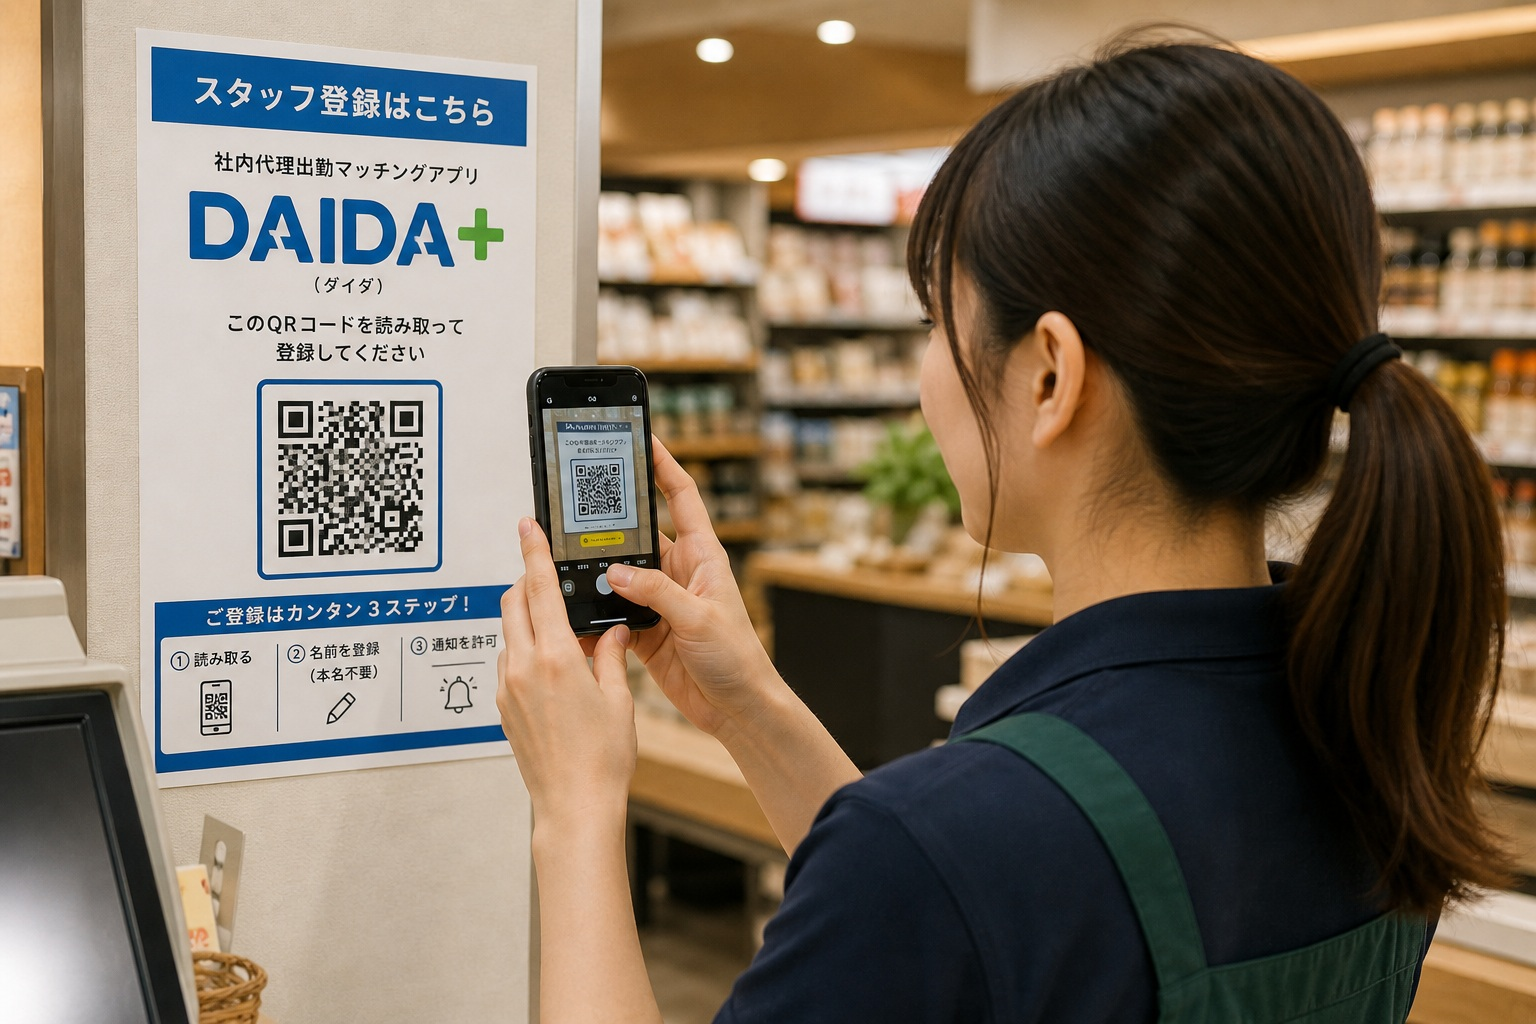
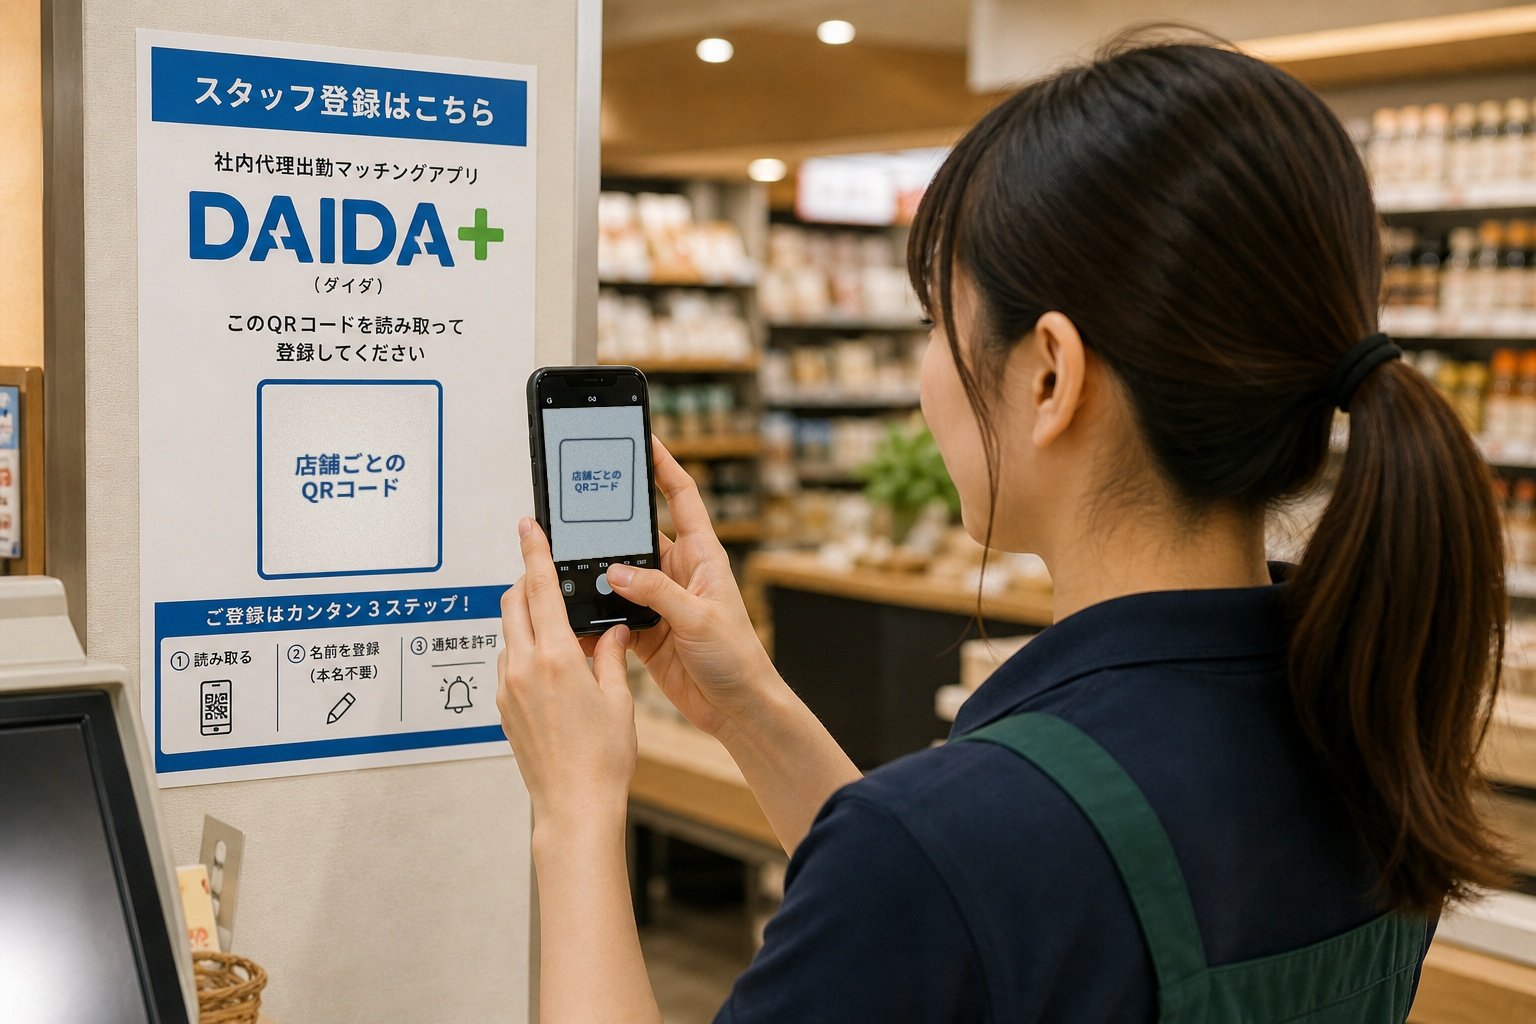
写真②の偽QRを「店舗ごとの QRコード」の表示に差し替え
LPの写真に写っていたQRは、AIが描いた読み取れない模様だった。
「店舗用QRコードから登録できます」と説明している真下にあり、
かざしても何も起きない状態だった。

- 壁の貼り紙のQR → 「店舗ごとの QRコード」の文字に差し替え
- スマホ画面 → カメラが映す範囲を紙の地色にし、QRの枠だけを表示
  （実際にQRを読むときは、他が入らないようQRだけを写すため）
  あわせて、画面内のAI生成のでたらめな日本語がすべて消えた
- scripts/replace_fake_qr_in_photo2.py を追加（--verify で再確認できる）

料金・法務まわりの変更は含まない。

Changed region(s): [[0.1562, 0.375, 0.2812, 0.5625], [0.3438, 0.375, 0.4375, 0.5625]]

diff --git a/scripts/replace_fake_qr_in_photo2.py b/scripts/replace_fake_qr_in_photo2.py
@@ -1,0 +1,293 @@
+"""LPの写真②（photo2）に写っている「偽のQRコード」を、文字の入った四角に差し替える。
+
+なぜ必要か
+----------
+photo2 に写っている貼り紙のQRは、**AIが描いた「QRっぽい模様」で、読み取れません。**
+（3隅にあるはずの位置検出マークが右下にもあり、規格として成立していない）
+
+このLPは「店舗用QRコードから登録できます」と説明している場所です。
+興味を持った店長がスマホをかざしても、**何も起きません。**
+最初に試すのが「動かない体験」になります。
+
+そこで、QRの部分を「店舗ごとの QRコード」という文字に差し替えます。
+**ぼかしではなく文字にするのは、「見本である」と言い切るためです。**
+
+⚠ 2か所あります
+-----------------
+1. 壁の貼り紙のQR（大きい・正面）
+2. **スマホの画面に写っている、同じ貼り紙のQR（小さい）**
+
+スマホはその貼り紙を撮影している画面です。**片方だけ直すと、
+撮っている物と写っている物が食い違います。** 必ず両方直します。
+
+⚠ 出力は2ファイル
+------------------
+LPが使うのは `photo2.jpg` ですが、元データの `photo2.png` も直します。
+**jpgだけ直すと、次に誰かがpngから作り直したとき偽QRが戻ってきます。**
+
+使い方
+------
+    pip install opencv-python-headless pillow
+    python scripts/replace_fake_qr_in_photo2.py
+
+実行後、`--verify` で読み取り不能になったことを機械的に確認できます。
+"""
+
+import sys
+from pathlib import Path
+
+import cv2
+import numpy as np
+from PIL import Image, ImageDraw, ImageFont
+
+ROOT = Path(__file__).resolve().parents[1]
+FONT_PATH = "/usr/share/fonts/opentype/noto/NotoSansCJK-Bold.ttc"
+
+LINES = ["店舗ごとの", "QRコード"]
+
+# 乗算合成する文字の色（BGR）。
+# 紙の色 (203,209,216) に掛けると (119,66,21) ＝ 貼り紙の青枠とほぼ同じ濃紺になる。
+# **べた塗りで置くのではなく掛け算にするのは、紙の陰影を残すため。**
+TEXT_MUL_BGR = (150, 80, 25)
+
+
+# 座標はすべて photo2（1536x1024）の実寸。
+# fill  … 紙で塗りつぶす範囲（枠の内側。**青枠には絶対に触れない**よう内側に取る）
+# text  … 文字を載せる四角（元のQRが占めていた範囲。傾きをそのまま引き継ぐ）
+TARGETS = [
+    {
+        "name": "壁の貼り紙",
+        "fill": [(268, 392), (430, 391), (428, 566), (268, 571)],
+        "text": [(278, 401), (422, 401), (420, 548), (278, 557)],
+        # ざらつきの強さを測る、何も印刷されていない紙の場所（青枠の上）
+        "plain": (300, 340, 400, 372),
+        "line_gap": 0.22,
+    },
+    {
+        # 【2026-08-26 方針変更】最初は「画面の中の貼り紙のQRだけ」を差し替えた。
+        # しかし tas さんの指摘どおり、**実際にQRを読むときは、
+        # 他の情報が入らないようにQRだけを写す。**
+        # 画面いっぱいに貼り紙全体（題字・説明文・黄色い帯）が写っているのは、
+        # そもそも不自然だった。しかもそれらは全部、AIの描いたでたらめな文字。
+        #
+        # → **カメラが映している範囲は、紙の地色だけにする。**
+        #    そこに「店舗ごとの QRコード」の四角だけを、近づいて撮った大きさで置く。
+        "name": "スマホ画面",
+        # カメラが映している範囲。
+        # ⚠ 目分量で決めて右端に元の背景が残った。**画面の黒い部分と地続きでない
+        # 明るい塊**として取り出し、行ごとの右端を数えて求め直した値がこれ。
+        # スマホが傾いているため、**4辺すべてが斜め**。四隅とも別々に測った
+        # （右端 641→652、下端 x=560 で y=560・x=640 で y=553）。
+        # 下辺を水平だと思って 554 で切ったところ、**下に元の背景が帯で残った。**
+        "fill": [(543, 409), (641, 406), (652, 552), (553, 561)],
+        # ⚠ ここは 1次式（平面）で当てはめる。
+        # 範囲が広く、元になる明るい画素が真ん中に偏っているため、
+        # 2次式だと端が不自然に暗くなったり明るくなったりする。
+        "order": 1,
+        "frame": {"quad": [(560, 440), (634, 438), (632, 520), (561, 522)],
+                  "bgr": (70, 60, 46)},
+        "text": [(564, 445), (630, 443), (628, 516), (565, 518)],
+        # ざらつきを測る、画面の中の貼り紙の何も無いところ
+        "plain": (600, 452, 616, 457),
+        "line_gap": 0.22,
+    },
+]
+
+
+def poly_mask(shape, quad):
+    m = np.zeros(shape[:2], np.uint8)
+    cv2.fillConvexPoly(m, np.array(quad, np.int32), 255)
+    return m
+
+
+def erase_qr(img, quad, plain, order=2):
+    """四角の中の模様（QR）を消して、紙だけにする。
+
+    ⚠ inpaint（周りから塗り広げる方法）は使わない。
+    一度これで作ったところ、**四角い染みのようなムラ**が出た。
+    紙には照明のムラ（左上が明るく右下が暗い、など）があり、
+    塗り広げでは再現できない。
+
+    代わりに、**いま写っている紙そのものから求める。**
+    QRの白い隙間は、この四角の全面に散らばっている。
+    その明るい画素だけを拾って、なだらかな曲面（2次式）を当てはめれば、
+    照明のムラを含んだ「その場所の紙の色」が復元できる。
+    """
+    area = poly_mask(img.shape, quad)
+    gray = cv2.cvtColor(img, cv2.COLOR_BGR2GRAY)
+
+    # 明るい画素＝紙。QRの白い隙間と、コードの周りの余白。
+    thr = np.percentile(gray[area > 0], 75)
+    paper = (gray >= thr) & (area > 0)
+    ys, xs = np.nonzero(paper)
+    if len(ys) < 60:
+        raise RuntimeError("紙の色を求めるだけの明るい画素が足りません")
+
+    # 座標を -1〜1 に正規化してから当てはめる（桁が揃わないと解が荒れる）
+    x0, x1 = xs.min(), xs.max()
+    y0, y1 = ys.min(), ys.max()
+
+    def basis(x, y):
+        u = (x - x0) / max(x1 - x0, 1) * 2 - 1
+        v = (y - y0) / max(y1 - y0, 1) * 2 - 1
+        terms = [np.ones_like(u), u, v]
+        if order >= 2:
+            terms += [u * v, u * u, v * v]
+        return np.stack(terms, axis=-1)
+
+    A = basis(xs.astype(np.float64), ys.astype(np.float64))
+    gy, gx = np.nonzero(area)
+    B = basis(gx.astype(np.float64), gy.astype(np.float64))
+
+    out = img.copy()
+    for c in range(3):
+        coef, *_ = np.linalg.lstsq(A, img[ys, xs, c].astype(np.float64), rcond=None)
+        out[gy, gx, c] = np.clip(B @ coef, 0, 255)
+
+    # 曲面はつるつるになる。写真の粒状感が無いと、そこだけ浮く。
+    #
+    # ⚠ ざらつきの強さは、**何も印刷されていない紙の場所**から測る。
+    # 一度、QRのあった範囲から測って失敗した。そこにはモジュールの黒い縁が
+    # 混ざっているため、実際の何倍もの値になり、**砂嵐のような画面**になった。
+    #
+    # ⚠ また、RGBそれぞれに別のざらつきを足してはいけない。
+    # 色の粒（赤や緑の点々）が出る。**明るさだけを揺らす。**
+    px0, py0, px1, py1 = plain
+    patch = gray[py0:py1, px0:px1].astype(np.float64)
+    sigma = min(float(np.std(patch - cv2.GaussianBlur(patch, (0, 0), 2))), 4.0)
+    rng = np.random.default_rng(20260826)
+    noise = rng.normal(0, max(sigma, 0.5), size=len(gy))[:, None]
+    out[gy, gx] = np.clip(out[gy, gx].astype(np.float64) + noise, 0, 255)
+
+    # 縁は1px ぼかして、外側の余白となめらかにつなぐ。
+    alpha = (cv2.GaussianBlur(area, (0, 0), 1).astype(np.float32) / 255.0)[..., None]
+    return (out * alpha + img * (1 - alpha)).astype(np.uint8)
+
+
+def text_layer(w, h, line_gap):
+    """白地に濃い文字の画像を作る（乗算合成用）。"""
+    scale = 6
+    W, H = w * scale, h * scale
+    im = Image.new("L", (W, H), 255)
+    d = ImageDraw.Draw(im)
+
+    # 幅の78%に収まる最大の文字サイズを探す。
+    # **決め打ちにしない。** 文言を変えたときに、はみ出したり小さすぎたりするため。
+    size = 8
+    while size < H:
+        f = ImageFont.truetype(FONT_PATH, size + 1, index=0)
+        widest = max(d.textlength(s, font=f) for s in LINES)
+        total = (size + 1) * (len(LINES) + line_gap * (len(LINES) - 1))
+        if widest > W * 0.78 or total > H * 0.62:
+            break
+        size += 1
+    font = ImageFont.truetype(FONT_PATH, size, index=0)
+
+    step = size * (1 + line_gap)
+    block = step * (len(LINES) - 1) + size
+    top = (H - block) / 2
+    for i, s in enumerate(LINES):
+        bbox = font.getbbox(s)
+        x = (W - (bbox[2] - bbox[0])) / 2 - bbox[0]
+        d.text((x, top + i * step - bbox[1]), s, font=font, fill=0)
+
+    return np.array(im.resize((w, h), Image.LANCZOS))
+
+
+def draw_text(img, quad, line_gap):
+    xs = [p[0] for p in quad]
+    ys = [p[1] for p in quad]
+    w, h = max(xs) - min(xs), max(ys) - min(ys)
+
+    layer = text_layer(w, h, line_gap)
+    src = np.float32([(0, 0), (w, 0), (w, h), (0, h)])
+    M = cv2.getPerspectiveTransform(src, np.float32(quad))
+    warped = cv2.warpPerspective(
+        layer, M, (img.shape[1], img.shape[0]),
+        flags=cv2.INTER_LINEAR, borderMode=cv2.BORDER_CONSTANT, borderValue=255,
+    ).astype(np.float32) / 255.0
+
+    # 乗算合成。文字のあるところだけ、指定色の割合まで暗くなる。
+    mul = np.stack([warped + (1 - warped) * (c / 255.0) for c in TEXT_MUL_BGR], axis=2)
+    return np.clip(img.astype(np.float32) * mul, 0, 255).astype(np.uint8)
+
+
+def draw_frame(img, spec):
+    """消してしまった枠線を引き直す。
+
+    はっきりした線をそのまま置くと、写真の中で**そこだけ妙にくっきり**する。
+    軽くぼかしてから重ねて、周りのピントに合わせる。
+    """
+    # 角を丸める。壁の貼り紙の枠が角丸なので、画面に写る枠も角丸でないと食い違う。
+    # 単位正方形の上で丸角の輪郭を作り、それを四角の傾きに合わせて写す。
+    r = spec.get("radius", 0.07)
+    pts = []
+    for cx, cy, a0 in ((r, r, 180), (1 - r, r, 270), (1 - r, 1 - r, 0), (r, 1 - r, 90)):
+        for k in range(9):
+            a = np.radians(a0 + 90 * k / 8)
+            pts.append((cx + r * np.cos(a), cy + r * np.sin(a)))
+    unit = np.float32([(0, 0), (1, 0), (1, 1), (0, 1)])
+    M = cv2.getPerspectiveTransform(unit, np.float32(spec["quad"]))
+    pts = cv2.perspectiveTransform(np.float32(pts).reshape(-1, 1, 2), M)
+
+    # ⚠ 実寸のまま1画素の線を引くと、傾いた四角では**階段状のギザギザ**になる。
+    # 4倍の大きさで描いてから縮める。
+    s = 4
+    big = np.zeros((img.shape[0] * s, img.shape[1] * s), np.float32)
+    cv2.polylines(big, [np.int32(np.round(pts * s))], True, 1.0, s, cv2.LINE_AA)
+    layer = cv2.resize(big, (img.shape[1], img.shape[0]), interpolation=cv2.INTER_AREA)
+    layer = np.clip(cv2.GaussianBlur(layer, (0, 0), 0.6) * 1.6, 0, 1)[..., None]
+    color = np.array(spec["bgr"], np.float32)
+    return (img * (1 - layer) + color * layer).astype(np.uint8)
+
+
+def verify(path):
+    img = cv2.imread(str(path))
+    ok, infos, _, _ = cv2.QRCodeDetector().detectAndDecodeMulti(img)
+    found = [i for i in (infos or []) if i]
+    if ok and found:
+        print(f"  ❌ {path.name}: QRとして読み取れる内容が残っています: {found}")
+        return False
+    print(f"  ✅ {path.name}: 読み取れるQRなし")
+    return True
+
+
+def main():
+    if "--verify" in sys.argv:
+        return 0 if all(verify(ROOT / n) for n in ("photo2.jpg", "photo2.png")) else 1
+
+    src = cv2.imread(str(ROOT / "photo2.png"))
+    if src is None:
+        print("photo2.png が見つかりません")
+        return 1
+
+    # ⚠ この処理は「元の写真」に対して1回だけ実行するもの。
+    # 差し替え後の写真にもう一度かけると、作った文字を消してさらに塗り直す。
+    # 壁の貼り紙のQRがあった場所に暗い画素が残っているかで、未処理かを判定する。
+    probe = cv2.cvtColor(src[405:545, 280:420], cv2.COLOR_BGR2GRAY)
+    if (probe < 120).mean() < 0.15 and "--force" not in sys.argv:
+        print("  ⚠ photo2.png は差し替え済みに見えます。")
+        print("     元に戻してから実行してください:  git checkout -- photo2.png photo2.jpg")
+        return 1
+
+    img = src.copy()
+    for t in TARGETS:
+        img = erase_qr(img, t["fill"], t["plain"], t.get("order", 2))
+        if t.get("frame"):
+            img = draw_frame(img, t["frame"])
+        img = draw_text(img, t["text"], t["line_gap"])
+        print(f"  差し替え: {t['name']}")
+
+    cv2.imwrite(str(ROOT / "photo2.png"), img)
+    # LPが読み込むのは jpg。
+    # ⚠ 品質は 95。88〜97 を試し、**触っていない部分が元の photo2.jpg と
+    # いちばん近くなる値**を選んだ（差 RMSE 1.34／ファイル 417KB ≒ 元の 413KB）。
+    # 下げるとページは軽くなるが、写真全体が知らないうちに劣化する。
+    cv2.imwrite(str(ROOT / "photo2.jpg"), img, [cv2.IMWRITE_JPEG_QUALITY, 95])
+    print("  photo2.png / photo2.jpg を更新しました")
+
+    return 0 if all(verify(ROOT / n) for n in ("photo2.jpg", "photo2.png")) else 1
+
+
+if __name__ == "__main__":
+    sys.exit(main())
